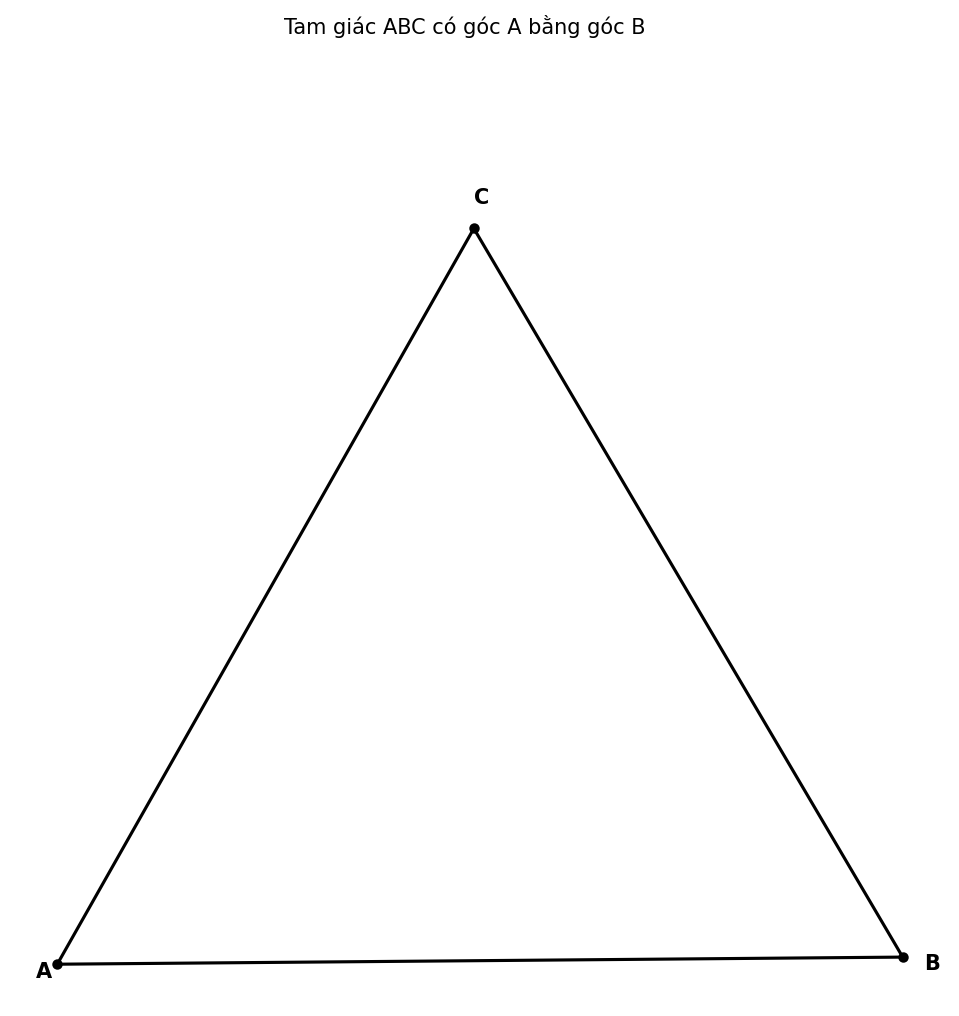
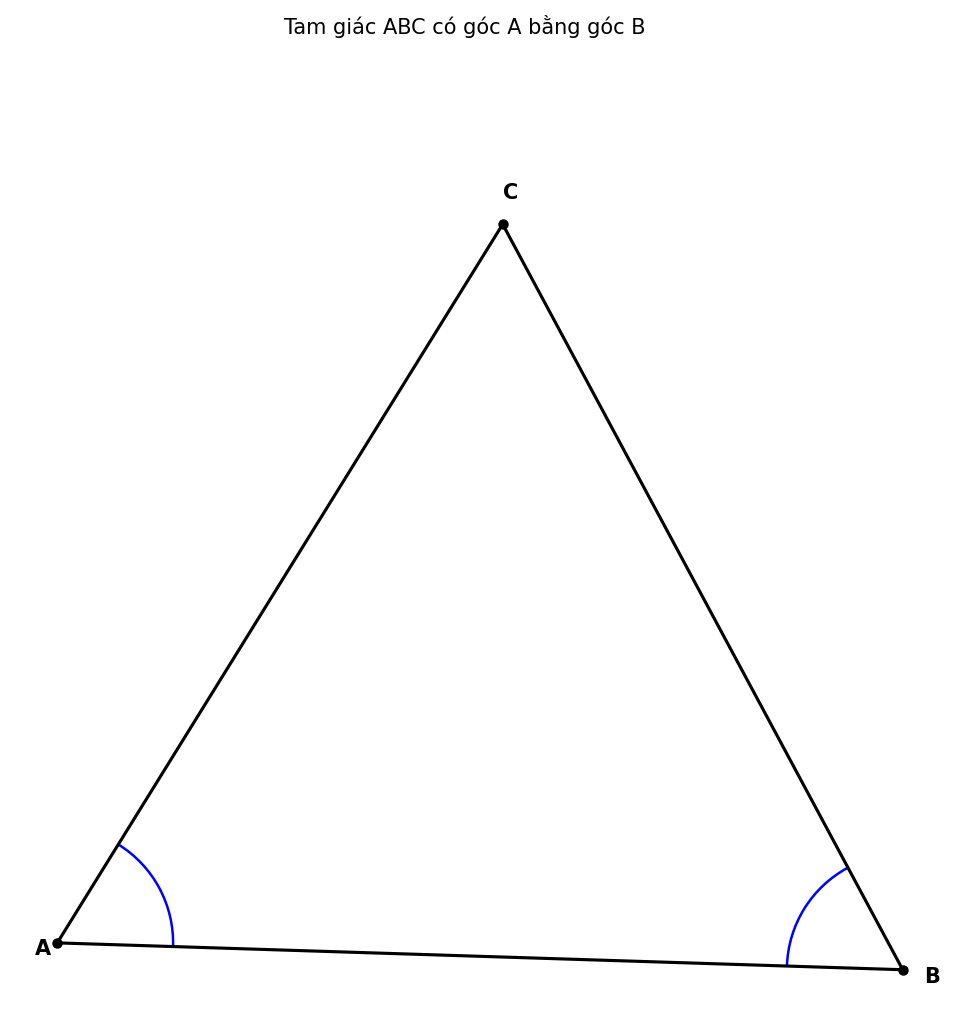
update equal angle (A=B)

diff --git a/llm_engineering/applications/diagram/services/diagram_builder.py b/llm_engineering/applications/diagram/services/diagram_builder.py
@@ -69,15 +69,23 @@ class DiagramBuilder:
             self.instructions.append(instr)
             return
 
-        # Two parameters: type + special point
+        # Two or more parameters: type + arguments
         type_str = param_method[0].upper().replace('-', '_')
-        special_p = Point(param_method[1])
+        
+        # Handle different parameter types
+        param_type_lower = param_method[0].lower()
+        if param_type_lower in ['equal_angles', 'equal-angles']:
+            # For equal_angles, args are indices (integers), not Points
+            args = tuple(param_method[1:])
+        else:
+            # For other types (isosceles, right, etc.), args are Points
+            args = tuple(Point(p) for p in param_method[1:])
 
         try:
             head = TriangleType[type_str]
-            instr = Parameter(DiagramType.TRIANGLE, ps, head, (special_p,))
+            instr = Parameter(DiagramType.TRIANGLE, ps, head, args)
         except KeyError:
-            instr = Parameter(DiagramType.TRIANGLE, ps, param_method[0].lower(), (special_p,))
+            instr = Parameter(DiagramType.TRIANGLE, ps, param_type_lower, args)
 
         self.instructions.append(instr)
         

diff --git a/llm_engineering/infrastructures/visualization/matplotlib_renderer.py b/llm_engineering/infrastructures/visualization/matplotlib_renderer.py
@@ -68,7 +68,7 @@ class MatplotlibDiagramRenderer:
                 [corner1[1], corner2[1], corner3[1]],
                 'k-', linewidth=1.0)
 
-    def _draw_angle_arc(self, ax, vertex: GeometricPoint, p1: GeometricPoint, p2: GeometricPoint, num_arcs: int = 1, radius: float = 0.3):
+    def _draw_angle_arc(self, ax, vertex: GeometricPoint, p1: GeometricPoint, p2: GeometricPoint, num_arcs: int = 1, radius: float = 0.12):
         """
         Vẽ arc để đánh dấu góc tại vertex
         vertex: GeometricPoint - đỉnh góc
@@ -105,13 +105,13 @@ class MatplotlibDiagramRenderer:
         
         # Vẽ nhiều arcs để phân biệt
         for i in range(num_arcs):
-            r = radius + i * 0.1  # Mỗi arc cách nhau 0.1
+            r = radius + i * 0.05  # Mỗi arc cách nhau 0.05
             arc = patches.Arc((vertex.x, vertex.y), 2*r, 2*r, 
                              angle=0, 
                              theta1=angle1, 
                              theta2=angle2,
                              color='blue', 
-                             linewidth=1.5)
+                             linewidth=1.2)
             ax.add_patch(arc)
     
     def render(

diff --git a/llm_engineering/applications/diagram/optimizer.py b/llm_engineering/applications/diagram/optimizer.py
@@ -689,10 +689,13 @@ class Optimizer:
             # DSL: (triangle (A B C) (equal_angles 0 1))
             # góc tại đỉnh 0 = góc tại đỉnh 1
             constraints['type'] = 'scalene'
+            logger.info(f"Processing equal_angles with args: {args}")
             if args and len(args) >= 2:
-                idx1 = int(args[0].val) if hasattr(args[0], 'val') else int(args[0])
-                idx2 = int(args[1].val) if hasattr(args[1], 'val') else int(args[1])
+                # args are now raw values (int or str), not Point objects
+                idx1 = int(str(args[0]))
+                idx2 = int(str(args[1]))
                 constraints['equal_angles'] = [(idx1, idx2)]
+                logger.info(f"Set equal_angles constraint: {constraints['equal_angles']}")
         else:
             constraints['type'] = 'scalene'
 
